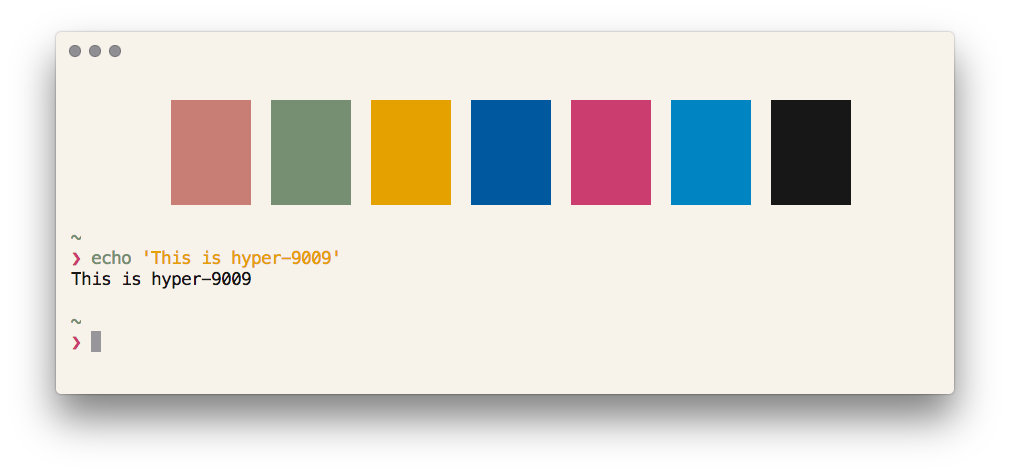
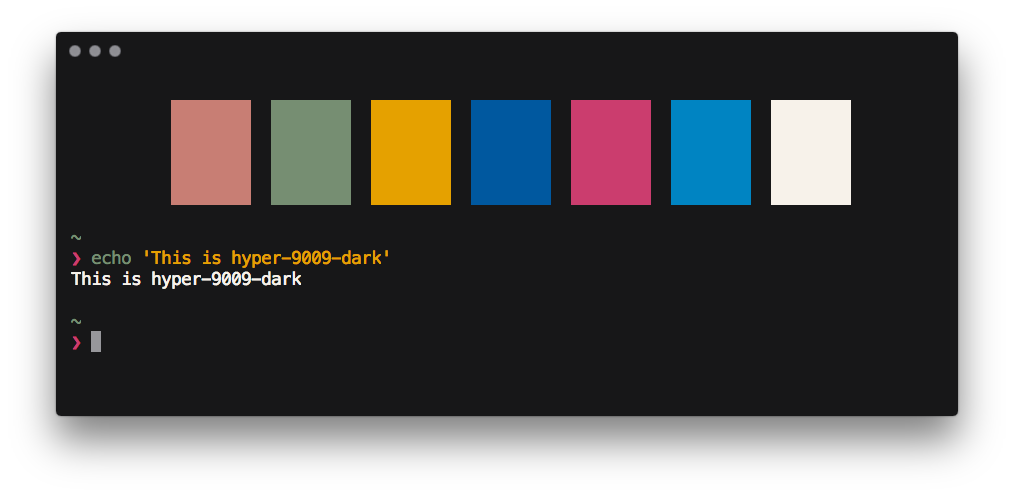
Update dark version configuration and readme.

diff --git a/index.js b/index.js
@@ -11,8 +11,10 @@ const blue = '#00589f';  // V4
 const magenta = '#cb3d6e';  // MG1
 const cyan = '#0084c2';  // N5
 
-const foregroundColor = black;
-const backgroundColor = white;
+const lightBlack = '#aca693'; // U9
+
+const foregroundColor = white;
+const backgroundColor = black;
 
 
 exports.decorateConfig = config => Object.assign({}, config, {
@@ -31,7 +33,7 @@ exports.decorateConfig = config => Object.assign({}, config, {
 		magenta,
 		cyan,
 		white,
-		lightBlack: black,
+		lightBlack,
 		lightRed: red,
 		lightGreen: green,
 		lightYellow: yellow,

diff --git a/readme.md b/readme.md
@@ -1,13 +1,13 @@
 # hyper-9009
 
-> A modified Hyper theme based on [hyper-snazzy](https://github.com/sindresorhus/hyper-snazzy)
+> A dark version of [hyper-9009](https://github.com/RichoHan/hyper-9009)
 
 ![](screenshot.png)
 
 ## Install
 
 ```
-$ hyper install hyper-9009
+$ hyper install hyper-9009-dark
 ```
 
 ## Explanation
@@ -19,7 +19,7 @@ For all colors used in the theme, please check the table below.
 |Color|GMK Code|Representation|RGB|
 |:-:|:-:|:-:|:-:|
 |Foreground|CR|![#171718](https://placehold.it/15/171718/000000?text=+)|#171718|
-|_Unused_|U9|![#aca693](https://placehold.it/15/aca693/000000?text=+)|#aca693|
+|Light Black|U9|![#aca693](https://placehold.it/15/aca693/000000?text=+)|#aca693|
 |_Unused_|L9|![#d8d2c3](https://placehold.it/15/d8d2c3/000000?text=+)|#d8d2c3|
 |Background|WS1|![#f7f2ea](https://placehold.it/15/f7f2ea/000000?text=+)|#f7f2ea|
 |Green|3B|![#768e72](https://placehold.it/15/768e72/000000?text=+)|#768e72|
@@ -32,4 +32,4 @@ For all colors used in the theme, please check the table below.
 ## License
 MIT
 
-> Copyright for portions of project [hyper-9009](https://github.com/RichoHan/hyper-9009) are held by [[Sindre Sorhus](sindresorhus.com), 2017] as part of project [hyper-snazzy](https://github.com/sindresorhus/hyper-snazzy). All other copyright for the rest of the project are held by [[Richo Han](richo.tw), 2018].
+> Copyright for portions of project [hyper-9009-dark](https://github.com/RichoHan/hyper-9009-dark) are held by [[Sindre Sorhus](sindresorhus.com), 2017] as part of project [hyper-snazzy](https://github.com/sindresorhus/hyper-snazzy). All other copyright for the rest of the project are held by [[Richo Han](richo.tw), 2018].
